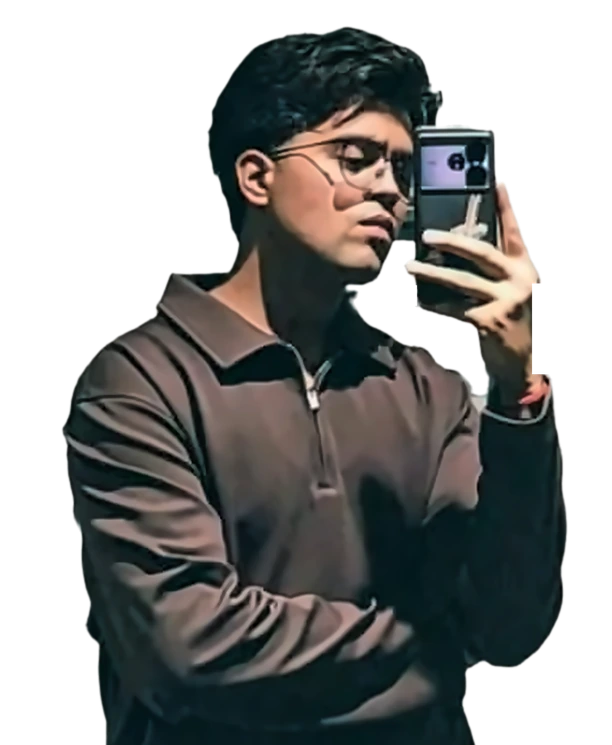
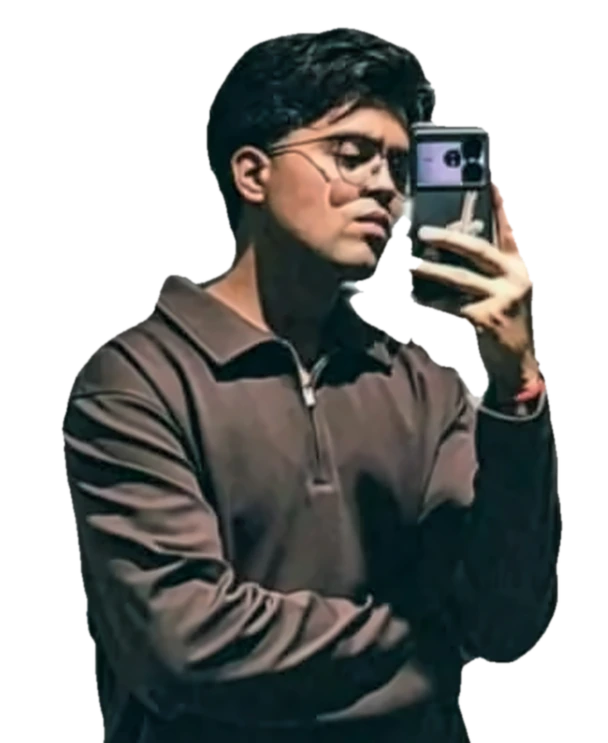
Use the cleaner owner-supplied portrait cut-out

diff --git a/index.html b/index.html
@@ -62,7 +62,7 @@
             <path d="M745 180 L815 178" stroke-width="3"/>
           </g>
         </svg>
-        <img src="portrait.webp" alt="Aditya Raj" width="612" height="745" />
+        <img src="portrait.webp" alt="Aditya Raj" width="608" height="743" />
       </div>
     </section>
 
